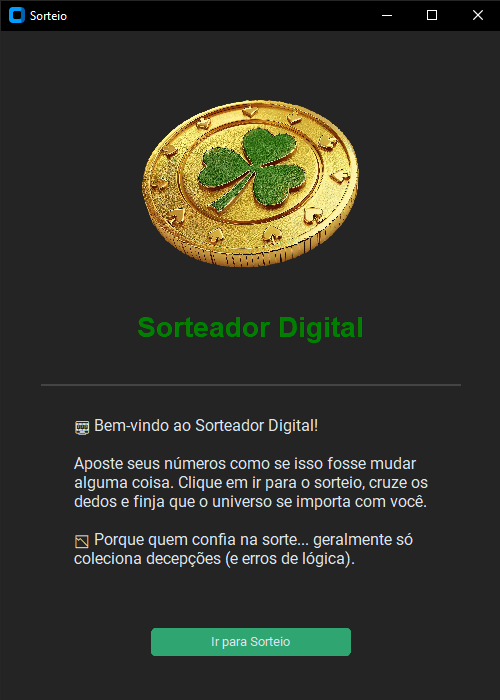
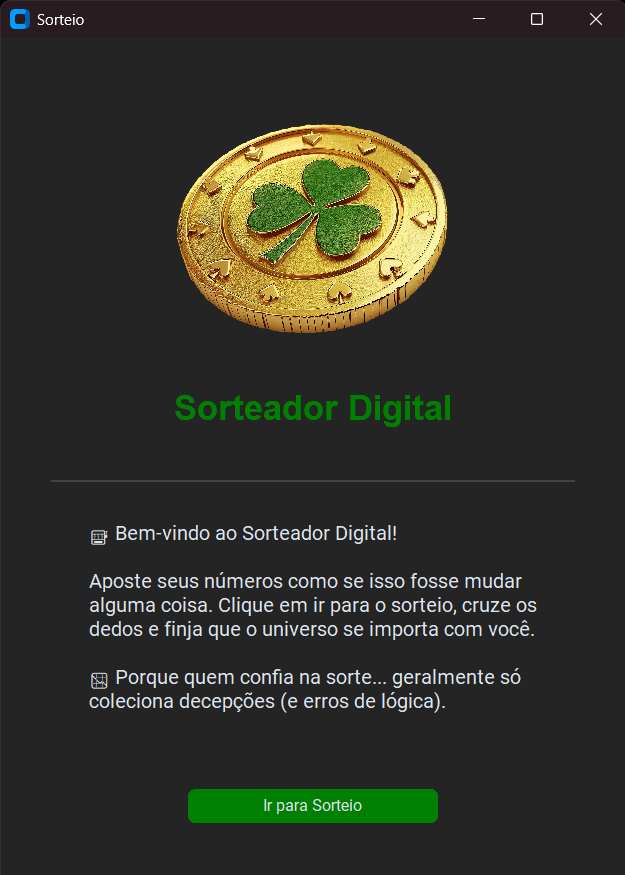
botoes e readme atualizados

diff --git a/interface/pagina_sorteio.py b/interface/pagina_sorteio.py
@@ -10,7 +10,6 @@ def abrir_pagina_sorteio():
     janela.geometry("500x500")
 
     ctk.set_appearance_mode("dark")
-    ctk.set_default_color_theme("green")
 
     label_info = ctk.CTkLabel(janela, text="Digite 6 números entre 1 e 60:", text_color="green", font=("Helvetica", 15, "bold"))
     label_info.pack(pady=(10, 2))
@@ -46,13 +45,13 @@ def abrir_pagina_sorteio():
     for label in labels_resultado.values():
         label.pack(pady=2)
 
-    botao_sortear = ctk.CTkButton(janela, text="Sortear", command=lambda: fazer_aposta_e_sortear(entry_numeros, labels_resultado))
+    botao_sortear = ctk.CTkButton(janela, text="Sortear",fg_color="green", command=lambda: fazer_aposta_e_sortear(entry_numeros, labels_resultado))
     botao_sortear.pack(pady=10)
 
-    botao_historico = ctk.CTkButton(janela, text="Ver Histórico", command=abrir_historico)
+    botao_historico = ctk.CTkButton(janela, text="Ver Histórico", fg_color="green", command=abrir_historico)
     botao_historico.pack(pady=10)
     
-    botao_definido = ctk.CTkButton(janela, text="Banca Endoidou", command=lambda:banca_doida(entry_numeros, labels_resultado))
+    botao_definido = ctk.CTkButton(janela, text="Banca Endoidou", fg_color="green", command=lambda:banca_doida(entry_numeros, labels_resultado))
     botao_definido.pack(pady=10)
 
     janela.mainloop()

diff --git a/interface/interface.py b/interface/interface.py
@@ -10,7 +10,6 @@ def criar_janela_principal():
     janela_inicial = ctk.CTk()
     janela_inicial.title("Sorteio")
     janela_inicial.geometry("500x700")
-    ctk.set_default_color_theme("green")
 
     # Topo
     frame_topo = ctk.CTkFrame(janela_inicial, fg_color="transparent")
@@ -55,7 +54,7 @@ def criar_janela_principal():
     frame_botoes = ctk.CTkFrame(janela_inicial, fg_color="transparent")
     frame_botoes.pack(pady=30)
 
-    botao_sorteio = ctk.CTkButton(frame_botoes, text="Ir para Sorteio", command=lambda: abrir_pagina_sorteio(), width=200)
+    botao_sorteio = ctk.CTkButton(frame_botoes, text="Ir para Sorteio", fg_color="green", command=lambda: abrir_pagina_sorteio(), width=200)
     botao_sorteio.pack(pady=10)
 
     # LINHA DE SEPARAÇÃO

diff --git a/README.md b/README.md
@@ -8,8 +8,10 @@ Um programa de loteria em Python. O usuário insere uma sequência de números e
 
 <!-- Adicione aqui suas imagens, GIFs ou prints da interface do programa -->
 ![Imagem 1](img/interface.png)
-![Imagem 2](img/Sorteio%20Loteria%2004_08_2025%2017_19_07.png)
-![Imagem 3](img/Histórico%20de%20Sorteios%2004_08_2025%2017_19_39.png)
+![Imagem 2](img/sorteio1.png)
+![Imagem 3](img/sorteio2.png)
+![Imagem 3](img/banca-doida.png)
+![Imagem 3](img/historico.png)
 
 ---
 
@@ -22,6 +24,7 @@ Um programa de loteria em Python. O usuário insere uma sequência de números e
 ### Execução
 ```bash
 git clone https://github.com/seu-usuario/sorteador-digital.git
+pip install -r requirements.txt
 cd projeto-final-grupo-1-ilp
 python -m utils.main
 
@@ -32,6 +35,6 @@ python -m utils.main
 ### 👨💻 Autores
 
 - **Carlos Mateus** — Desenvolvedor backend  — [@CarlosIFRN](https://github.com/CarlosIFRN)
-- **Jadson Alves** — Desenvolvedor das backend  — [@JadsonAlv3s](https://github.com/JadsonAlv3s)
-- **Kauã Henrique** — Desenvolvedor frontend e alguns detalhes do backend — [@Kaua920](https://github.com/Kaua920)
-- **Yuri Fábio** — Desenvolvedor backend e alguns detalhes do frontend e o README — [@yurif4bio](https://github.com/yurif4bio)
+- **Jadson Alves** — Desenvolvedor backend  — [@JadsonAlv3s](https://github.com/JadsonAlv3s)
+- **Kauã Henrique** — Desenvolvedor frontend — [@Kaua920](https://github.com/Kaua920)
+- **Yuri Fábio** — Desenvolvedor backend — [@yurif4bio](https://github.com/yurif4bio)
